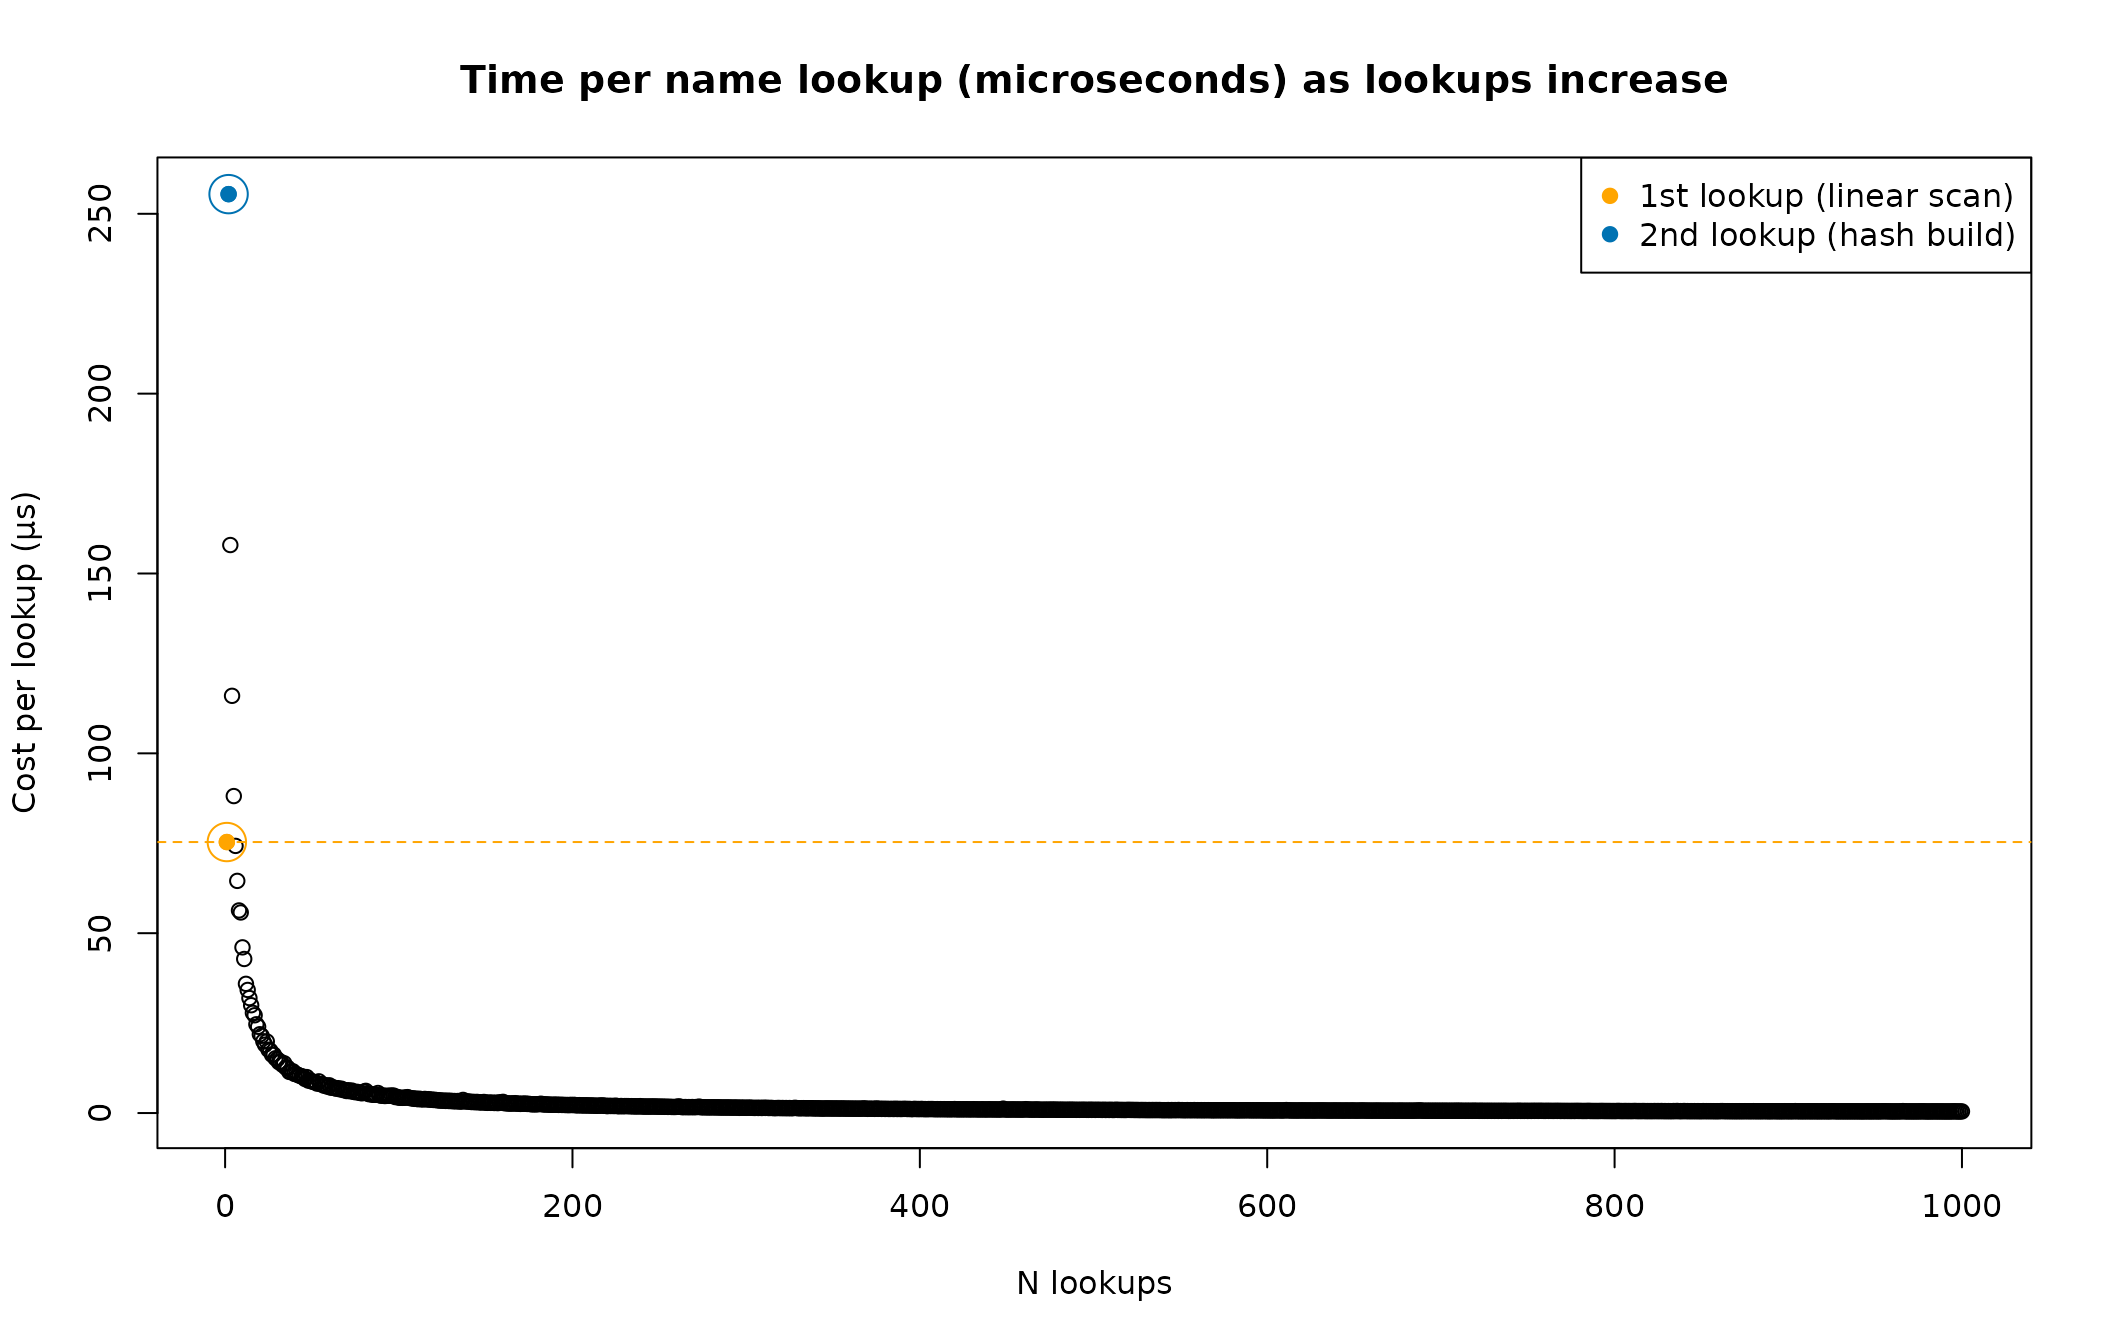
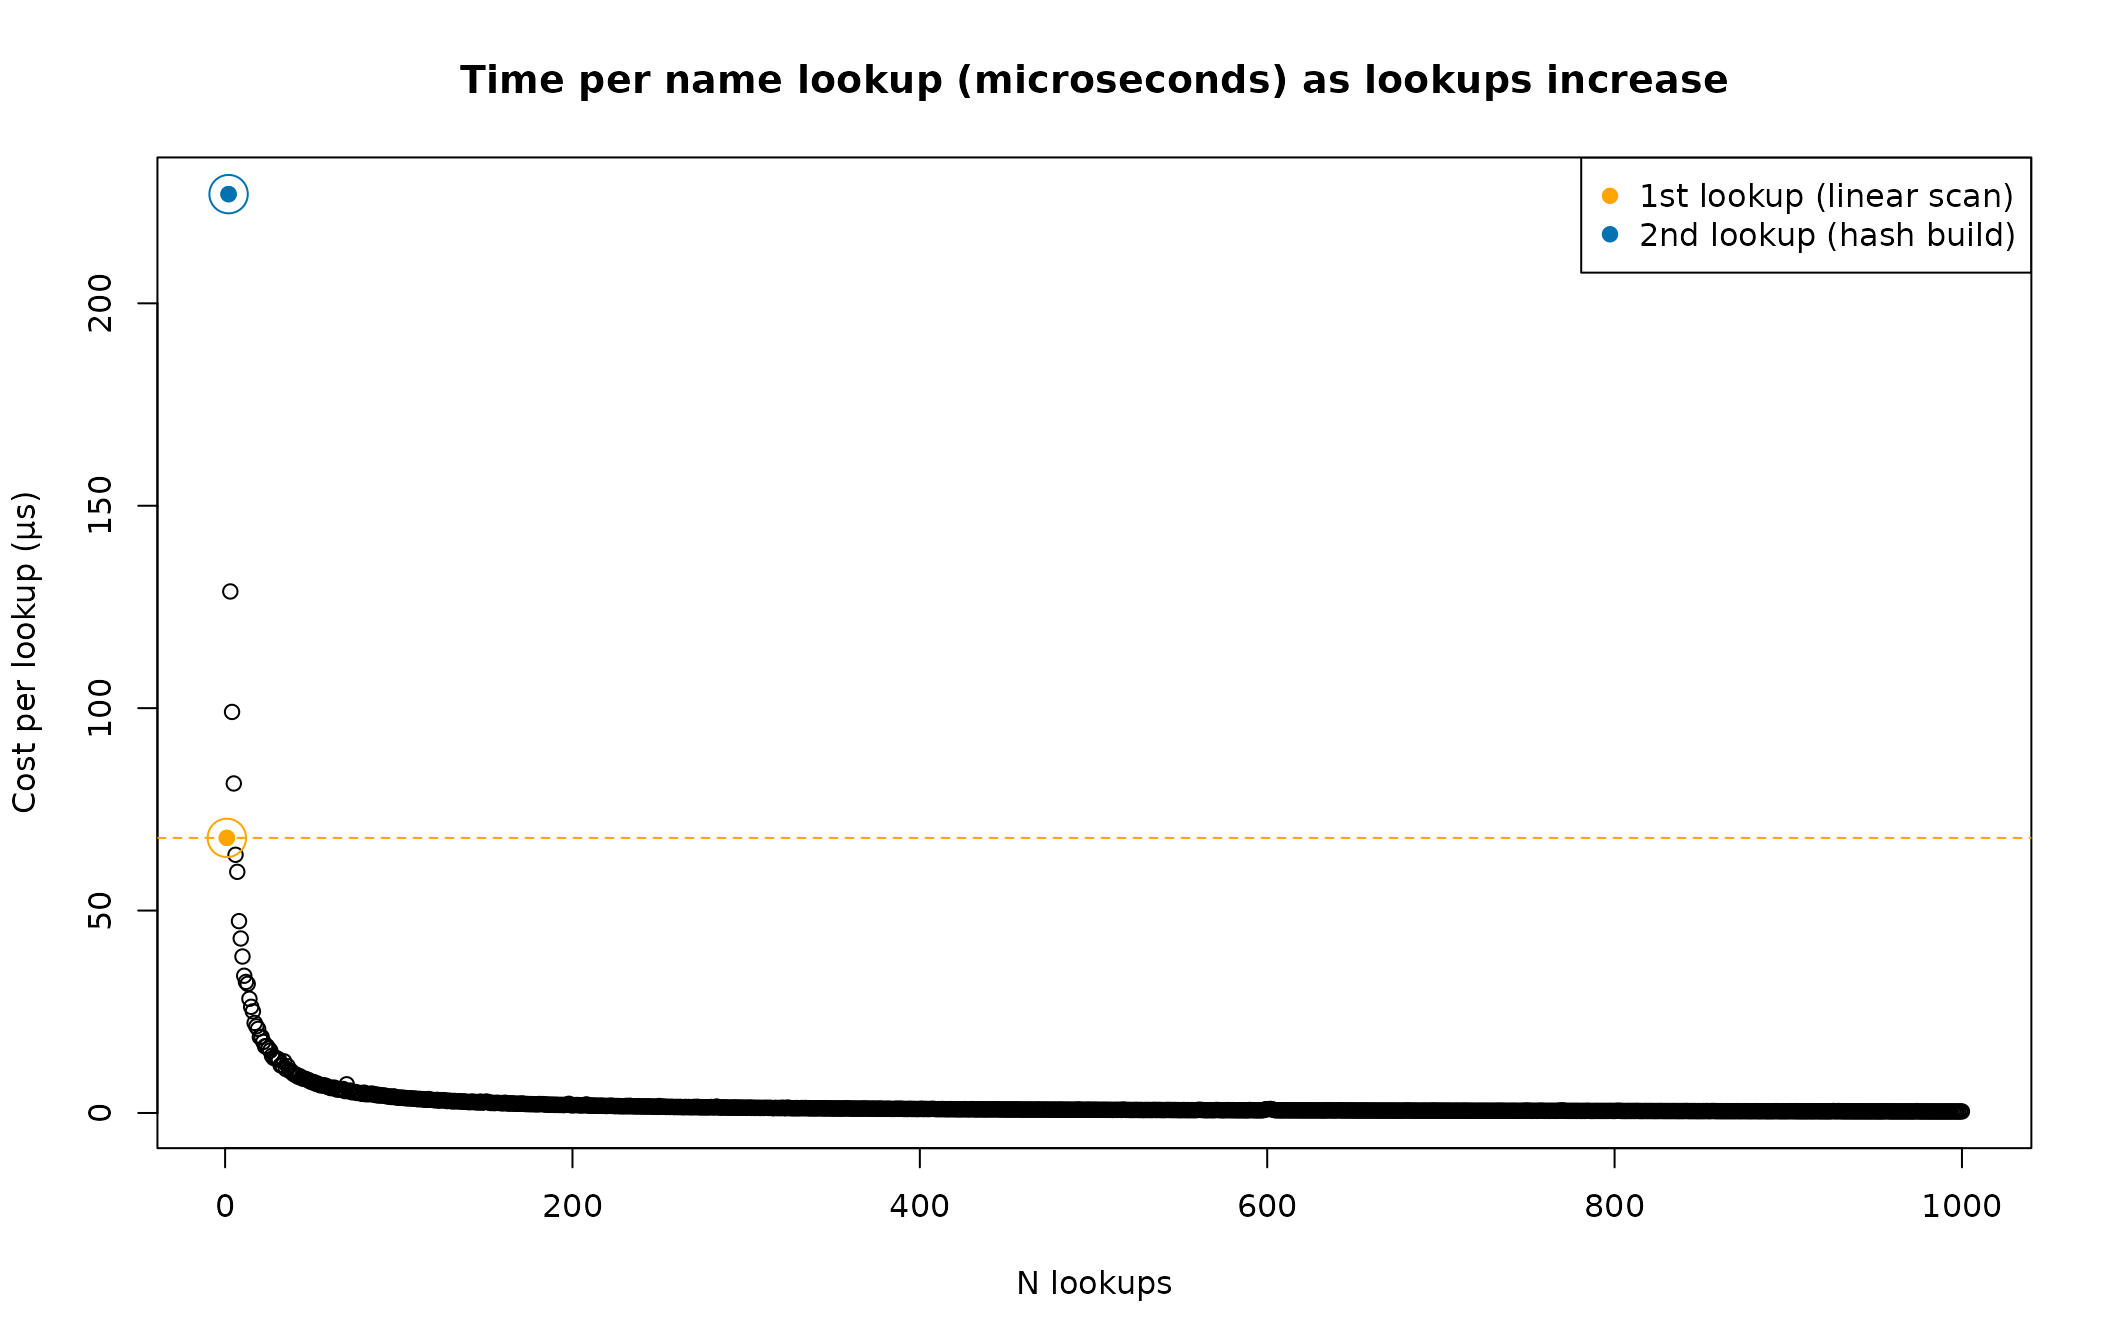
Deploying to gh-pages from @ NicChr/cppally@5fe1cfa82555fb2a5e6d2dbe80a600797ab2247e 🚀

diff --git a/articles/protection.html b/articles/protection.html
@@ -143,12 +143,12 @@ optimisations.</p>
 <div class="sourceCode" id="cb4"><pre class="downlit sourceCode r">
 <code class="sourceCode R"><span><span class="va">insert_release_cpp11</span> <span class="op">&lt;-</span> <span class="fu"><a href="https://rdrr.io/r/base/lapply.html" class="external-link">replicate</a></span><span class="op">(</span><span class="fl">10</span><span class="op">^</span><span class="fl">4</span>, <span class="fu">bench_protect_insert_release_cpp11</span><span class="op">(</span><span class="fl">10</span><span class="op">^</span><span class="fl">4</span><span class="op">)</span><span class="op">)</span> </span>
 <span><span class="fu"><a href="https://rdrr.io/r/base/mean.html" class="external-link">mean</a></span><span class="op">(</span><span class="va">insert_release_cpp11</span><span class="op">)</span></span>
-<span><span class="co">#&gt; [1] 39.52998</span></span>
+<span><span class="co">#&gt; [1] 47.8908</span></span>
 <span><span class="va">insert_release_cppally</span> <span class="op">&lt;-</span> <span class="fu"><a href="https://rdrr.io/r/base/lapply.html" class="external-link">replicate</a></span><span class="op">(</span><span class="fl">10</span><span class="op">^</span><span class="fl">4</span>, <span class="fu">bench_protect_insert_release_cppally</span><span class="op">(</span><span class="fl">10</span><span class="op">^</span><span class="fl">4</span><span class="op">)</span><span class="op">)</span></span>
 <span><span class="fu"><a href="https://rdrr.io/r/base/mean.html" class="external-link">mean</a></span><span class="op">(</span><span class="va">insert_release_cppally</span><span class="op">)</span></span>
-<span><span class="co">#&gt; [1] 17.3038</span></span></code></pre></div>
-<p>On my machine, cpp11 performs an insert &amp; release every ~40
-nanoseconds. cppally performs significantly better, with ~17 nanoseconds
+<span><span class="co">#&gt; [1] 15.41673</span></span></code></pre></div>
+<p>On my machine, cpp11 performs an insert &amp; release every ~48
+nanoseconds. cppally performs significantly better, with ~15 nanoseconds
 per insert &amp; release.</p>
 <p><strong>Copy benchmark</strong></p>
 <div class="sourceCode" id="cb5"><pre class="sourceCode cpp"><code class="sourceCode cpp"><span id="cb5-1"><a href="#cb5-1" tabindex="-1"></a></span>
@@ -194,12 +194,12 @@ per insert &amp; release.</p>
 <div class="sourceCode" id="cb7"><pre class="downlit sourceCode r">
 <code class="sourceCode R"><span><span class="va">copy_sexp_cpp11</span> <span class="op">&lt;-</span> <span class="fu"><a href="https://rdrr.io/r/base/lapply.html" class="external-link">replicate</a></span><span class="op">(</span><span class="fl">10</span><span class="op">^</span><span class="fl">4</span>, <span class="fu">bench_protect_copy_cpp11</span><span class="op">(</span><span class="fl">10</span><span class="op">^</span><span class="fl">4</span><span class="op">)</span><span class="op">)</span></span>
 <span><span class="fu"><a href="https://rdrr.io/r/base/mean.html" class="external-link">mean</a></span><span class="op">(</span><span class="va">copy_sexp_cpp11</span><span class="op">)</span></span>
-<span><span class="co">#&gt; [1] 35.79445</span></span>
+<span><span class="co">#&gt; [1] 45.13448</span></span>
 <span><span class="va">copy_sexp_cppally</span> <span class="op">&lt;-</span> <span class="fu"><a href="https://rdrr.io/r/base/lapply.html" class="external-link">replicate</a></span><span class="op">(</span><span class="fl">10</span><span class="op">^</span><span class="fl">4</span>, <span class="fu">bench_protect_copy_cppally</span><span class="op">(</span><span class="fl">10</span><span class="op">^</span><span class="fl">4</span><span class="op">)</span><span class="op">)</span></span>
 <span><span class="fu"><a href="https://rdrr.io/r/base/mean.html" class="external-link">mean</a></span><span class="op">(</span><span class="va">copy_sexp_cppally</span><span class="op">)</span></span>
-<span><span class="co">#&gt; [1] 0.3163867</span></span></code></pre></div>
+<span><span class="co">#&gt; [1] 0.3557763</span></span></code></pre></div>
 <p>In these benchmark results we can see a drastic difference, with
-cpp11 at ~36 ns/copy and cppally at ~0.3 ns/copy.</p>
+cpp11 at ~45 ns/copy and cppally at ~0.4 ns/copy.</p>
 <p><strong>Impact of protection overhead, a real example</strong></p>
 <p>Let’s look at a real example of how much protection overhead can have
 an impact on performance.</p>
@@ -259,21 +259,21 @@ microseconds</p>
 <span><span class="co">#&gt; <span style="color: #949494;"># A tibble: 1 × 6</span></span></span>
 <span><span class="co">#&gt;   expression         min   median `itr/sec` mem_alloc `gc/sec`</span></span>
 <span><span class="co">#&gt;   <span style="color: #949494; font-style: italic;">&lt;bch:expr&gt;</span>    <span style="color: #949494; font-style: italic;">&lt;bch:tm&gt;</span> <span style="color: #949494; font-style: italic;">&lt;bch:tm&gt;</span>     <span style="color: #949494; font-style: italic;">&lt;dbl&gt;</span> <span style="color: #949494; font-style: italic;">&lt;bch:byt&gt;</span>    <span style="color: #949494; font-style: italic;">&lt;dbl&gt;</span></span></span>
-<span><span class="co">#&gt; <span style="color: #BCBCBC;">1</span> C_na_count(x)   63.3µs   63.8µs    <span style="text-decoration: underline;">15</span>327.        0B        0</span></span></code></pre></div>
+<span><span class="co">#&gt; <span style="color: #BCBCBC;">1</span> C_na_count(x)   71.1µs   71.3µs    <span style="text-decoration: underline;">13</span>760.        0B        0</span></span></code></pre></div>
 <p><strong>cpp11 results</strong> - ~5 milliseconds</p>
 <div class="sourceCode" id="cb13"><pre class="downlit sourceCode r">
 <code class="sourceCode R"><span><span class="fu"><a href="https://bench.r-lib.org/reference/mark.html" class="external-link">mark</a></span><span class="op">(</span><span class="fu">cpp11_na_count</span><span class="op">(</span><span class="va">x</span><span class="op">)</span><span class="op">)</span></span>
 <span><span class="co">#&gt; <span style="color: #949494;"># A tibble: 1 × 6</span></span></span>
 <span><span class="co">#&gt;   expression             min   median `itr/sec` mem_alloc `gc/sec`</span></span>
 <span><span class="co">#&gt;   <span style="color: #949494; font-style: italic;">&lt;bch:expr&gt;</span>        <span style="color: #949494; font-style: italic;">&lt;bch:tm&gt;</span> <span style="color: #949494; font-style: italic;">&lt;bch:tm&gt;</span>     <span style="color: #949494; font-style: italic;">&lt;dbl&gt;</span> <span style="color: #949494; font-style: italic;">&lt;bch:byt&gt;</span>    <span style="color: #949494; font-style: italic;">&lt;dbl&gt;</span></span></span>
-<span><span class="co">#&gt; <span style="color: #BCBCBC;">1</span> cpp11_na_count(x)   6.54ms   6.67ms      148.        0B     46.5</span></span></code></pre></div>
+<span><span class="co">#&gt; <span style="color: #BCBCBC;">1</span> cpp11_na_count(x)   7.45ms   8.67ms      116.        0B     33.9</span></span></code></pre></div>
 <p><strong>cppally results</strong> - ~750 microseconds</p>
 <div class="sourceCode" id="cb14"><pre class="downlit sourceCode r">
 <code class="sourceCode R"><span><span class="fu"><a href="https://bench.r-lib.org/reference/mark.html" class="external-link">mark</a></span><span class="op">(</span><span class="fu">cppally_na_count</span><span class="op">(</span><span class="va">x</span><span class="op">)</span><span class="op">)</span></span>
 <span><span class="co">#&gt; <span style="color: #949494;"># A tibble: 1 × 6</span></span></span>
 <span><span class="co">#&gt;   expression               min   median `itr/sec` mem_alloc `gc/sec`</span></span>
 <span><span class="co">#&gt;   <span style="color: #949494; font-style: italic;">&lt;bch:expr&gt;</span>          <span style="color: #949494; font-style: italic;">&lt;bch:tm&gt;</span> <span style="color: #949494; font-style: italic;">&lt;bch:tm&gt;</span>     <span style="color: #949494; font-style: italic;">&lt;dbl&gt;</span> <span style="color: #949494; font-style: italic;">&lt;bch:byt&gt;</span>    <span style="color: #949494; font-style: italic;">&lt;dbl&gt;</span></span></span>
-<span><span class="co">#&gt; <span style="color: #BCBCBC;">1</span> cppally_na_count(x)   1.46ms   1.47ms      676.        0B        0</span></span></code></pre></div>
+<span><span class="co">#&gt; <span style="color: #BCBCBC;">1</span> cppally_na_count(x)   1.36ms   1.37ms      724.        0B        0</span></span></code></pre></div>
 <p>Counting values is a simple operation and because of its simplicity,
 the overhead associated with protection will dominate the benchmark. We
 can see that when removing the protection overhead and using the R C API
@@ -317,7 +317,7 @@ non-owning version of <code>r_str</code>.</p>
 <span><span class="co">#&gt; <span style="color: #949494;"># A tibble: 1 × 6</span></span></span>
 <span><span class="co">#&gt;   expression                    min   median `itr/sec` mem_alloc `gc/sec`</span></span>
 <span><span class="co">#&gt;   <span style="color: #949494; font-style: italic;">&lt;bch:expr&gt;</span>               <span style="color: #949494; font-style: italic;">&lt;bch:tm&gt;</span> <span style="color: #949494; font-style: italic;">&lt;bch:tm&gt;</span>     <span style="color: #949494; font-style: italic;">&lt;dbl&gt;</span> <span style="color: #949494; font-style: italic;">&lt;bch:byt&gt;</span>    <span style="color: #949494; font-style: italic;">&lt;dbl&gt;</span></span></span>
-<span><span class="co">#&gt; <span style="color: #BCBCBC;">1</span> cppally_fast_na_count(x)    218µs    219µs     <span style="text-decoration: underline;">4</span>488.        0B        0</span></span></code></pre></div>
+<span><span class="co">#&gt; <span style="color: #BCBCBC;">1</span> cppally_fast_na_count(x)    246µs    247µs     <span style="text-decoration: underline;">3</span>977.        0B        0</span></span></code></pre></div>
 <p>Looking at the benchmark results, we have effectively eliminated the
 protection overhead and the median execution time is much closer to that
 of the R C API.</p>
@@ -344,7 +344,7 @@ context.</p>
 <span><span class="co">#&gt; <span style="color: #949494;"># A tibble: 1 × 6</span></span></span>
 <span><span class="co">#&gt;   expression                       min   median `itr/sec` mem_alloc `gc/sec`</span></span>
 <span><span class="co">#&gt;   <span style="color: #949494; font-style: italic;">&lt;bch:expr&gt;</span>                  <span style="color: #949494; font-style: italic;">&lt;bch:tm&gt;</span> <span style="color: #949494; font-style: italic;">&lt;bch:tm&gt;</span>     <span style="color: #949494; font-style: italic;">&lt;dbl&gt;</span> <span style="color: #949494; font-style: italic;">&lt;bch:byt&gt;</span>    <span style="color: #949494; font-style: italic;">&lt;dbl&gt;</span></span></span>
-<span><span class="co">#&gt; <span style="color: #BCBCBC;">1</span> cppally_fast_na_count_v2(x)    218µs    219µs     <span style="text-decoration: underline;">4</span>492.        0B        0</span></span></code></pre></div>
+<span><span class="co">#&gt; <span style="color: #BCBCBC;">1</span> cppally_fast_na_count_v2(x)    212µs    247µs     <span style="text-decoration: underline;">3</span>992.        0B        0</span></span></code></pre></div>
 <p>The results are similar to that of
 <code>cppally_fast_na_count()</code>.</p>
 </div>

diff --git a/articles/vector_name_hashing.html b/articles/vector_name_hashing.html
@@ -119,12 +119,12 @@ index</p>
 <span><span class="co">#&gt; <span style="color: #949494;"># A tibble: 1 × 6</span></span></span>
 <span><span class="co">#&gt;   expression      min   median `itr/sec` mem_alloc `gc/sec`</span></span>
 <span><span class="co">#&gt;   <span style="color: #949494; font-style: italic;">&lt;bch:expr&gt;</span> <span style="color: #949494; font-style: italic;">&lt;bch:tm&gt;</span> <span style="color: #949494; font-style: italic;">&lt;bch:tm&gt;</span>     <span style="color: #949494; font-style: italic;">&lt;dbl&gt;</span> <span style="color: #949494; font-style: italic;">&lt;bch:byt&gt;</span>    <span style="color: #949494; font-style: italic;">&lt;dbl&gt;</span></span></span>
-<span><span class="co">#&gt; <span style="color: #BCBCBC;">1</span> large[[1]]    140ns    170ns  5<span style="text-decoration: underline;">709</span>253.        0B        0</span></span>
+<span><span class="co">#&gt; <span style="color: #BCBCBC;">1</span> large[[1]]    110ns    140ns  6<span style="text-decoration: underline;">603</span>003.        0B        0</span></span>
 <span><span class="fu"><a href="https://bench.r-lib.org/reference/mark.html" class="external-link">mark</a></span><span class="op">(</span><span class="va">large</span><span class="op">[[</span><span class="fu"><a href="https://rdrr.io/r/base/length.html" class="external-link">length</a></span><span class="op">(</span><span class="va">large</span><span class="op">)</span><span class="op">]</span><span class="op">]</span><span class="op">)</span></span>
 <span><span class="co">#&gt; <span style="color: #949494;"># A tibble: 1 × 6</span></span></span>
 <span><span class="co">#&gt;   expression                  min   median `itr/sec` mem_alloc `gc/sec`</span></span>
 <span><span class="co">#&gt;   <span style="color: #949494; font-style: italic;">&lt;bch:expr&gt;</span>             <span style="color: #949494; font-style: italic;">&lt;bch:tm&gt;</span> <span style="color: #949494; font-style: italic;">&lt;bch:tm&gt;</span>     <span style="color: #949494; font-style: italic;">&lt;dbl&gt;</span> <span style="color: #949494; font-style: italic;">&lt;bch:byt&gt;</span>    <span style="color: #949494; font-style: italic;">&lt;dbl&gt;</span></span></span>
-<span><span class="co">#&gt; <span style="color: #BCBCBC;">1</span> large[[length(large)]]    230ns    261ns  3<span style="text-decoration: underline;">588</span>673.        0B        0</span></span></code></pre></div>
+<span><span class="co">#&gt; <span style="color: #BCBCBC;">1</span> large[[length(large)]]    200ns    231ns  3<span style="text-decoration: underline;">666</span>752.        0B        0</span></span></code></pre></div>
 <p>Since R scans the names each time, lookup by name is O(n) and can be
 slow if names happen to be near the end of the vector</p>
 <div class="sourceCode" id="cb6"><pre class="downlit sourceCode r">
@@ -135,8 +135,8 @@ slow if names happen to be near the end of the vector</p>
 <span><span class="co">#&gt; <span style="color: #949494;"># A tibble: 2 × 6</span></span></span>
 <span><span class="co">#&gt;   expression      min   median `itr/sec` mem_alloc `gc/sec`</span></span>
 <span><span class="co">#&gt;   <span style="color: #949494; font-style: italic;">&lt;bch:expr&gt;</span> <span style="color: #949494; font-style: italic;">&lt;bch:tm&gt;</span> <span style="color: #949494; font-style: italic;">&lt;bch:tm&gt;</span>     <span style="color: #949494; font-style: italic;">&lt;dbl&gt;</span> <span style="color: #949494; font-style: italic;">&lt;bch:byt&gt;</span>    <span style="color: #949494; font-style: italic;">&lt;dbl&gt;</span></span></span>
-<span><span class="co">#&gt; <span style="color: #BCBCBC;">1</span> by_name       160ns    181ns  5<span style="text-decoration: underline;">085</span>236.        0B        0</span></span>
-<span><span class="co">#&gt; <span style="color: #BCBCBC;">2</span> by_index      140ns    170ns  5<span style="text-decoration: underline;">611</span>663.        0B        0</span></span>
+<span><span class="co">#&gt; <span style="color: #BCBCBC;">1</span> by_name       120ns    160ns  5<span style="text-decoration: underline;">779</span>271.        0B        0</span></span>
+<span><span class="co">#&gt; <span style="color: #BCBCBC;">2</span> by_index      110ns    140ns  6<span style="text-decoration: underline;">283</span>416.        0B        0</span></span>
 <span></span>
 <span><span class="fu"><a href="https://bench.r-lib.org/reference/mark.html" class="external-link">mark</a></span><span class="op">(</span></span>
 <span>    by_name <span class="op">=</span> <span class="va">large</span><span class="op">[[</span><span class="st">"name_100000"</span><span class="op">]</span><span class="op">]</span>, </span>
@@ -145,8 +145,8 @@ slow if names happen to be near the end of the vector</p>
 <span><span class="co">#&gt; <span style="color: #949494;"># A tibble: 2 × 6</span></span></span>
 <span><span class="co">#&gt;   expression      min   median `itr/sec` mem_alloc `gc/sec`</span></span>
 <span><span class="co">#&gt;   <span style="color: #949494; font-style: italic;">&lt;bch:expr&gt;</span> <span style="color: #949494; font-style: italic;">&lt;bch:tm&gt;</span> <span style="color: #949494; font-style: italic;">&lt;bch:tm&gt;</span>     <span style="color: #949494; font-style: italic;">&lt;dbl&gt;</span> <span style="color: #949494; font-style: italic;">&lt;bch:byt&gt;</span>    <span style="color: #949494; font-style: italic;">&lt;dbl&gt;</span></span></span>
-<span><span class="co">#&gt; <span style="color: #BCBCBC;">1</span> by_name       526µs    540µs     <span style="text-decoration: underline;">1</span>850.        0B        0</span></span>
-<span><span class="co">#&gt; <span style="color: #BCBCBC;">2</span> by_index      140ns    170ns  5<span style="text-decoration: underline;">703</span>586.        0B        0</span></span></code></pre></div>
+<span><span class="co">#&gt; <span style="color: #BCBCBC;">1</span> by_name       588µs    603µs     <span style="text-decoration: underline;">1</span>657.        0B        0</span></span>
+<span><span class="co">#&gt; <span style="color: #BCBCBC;">2</span> by_index      110ns    140ns  6<span style="text-decoration: underline;">759</span>698.        0B        0</span></span></code></pre></div>
 <p>If we created a hash table of names-values, we could speedup repeated
 lookups</p>
 <div class="sourceCode" id="cb7"><pre class="downlit sourceCode r">
@@ -170,9 +170,9 @@ hashed name</p>
 <span><span class="co">#&gt; <span style="color: #949494;"># A tibble: 3 × 6</span></span></span>
 <span><span class="co">#&gt;   expression          min   median `itr/sec` mem_alloc `gc/sec`</span></span>
 <span><span class="co">#&gt;   <span style="color: #949494; font-style: italic;">&lt;bch:expr&gt;</span>     <span style="color: #949494; font-style: italic;">&lt;bch:tm&gt;</span> <span style="color: #949494; font-style: italic;">&lt;bch:tm&gt;</span>     <span style="color: #949494; font-style: italic;">&lt;dbl&gt;</span> <span style="color: #949494; font-style: italic;">&lt;bch:byt&gt;</span>    <span style="color: #949494; font-style: italic;">&lt;dbl&gt;</span></span></span>
-<span><span class="co">#&gt; <span style="color: #BCBCBC;">1</span> by_name           529µs    542µs     <span style="text-decoration: underline;">1</span>744.        0B        0</span></span>
-<span><span class="co">#&gt; <span style="color: #BCBCBC;">2</span> by_index          140ns    161ns  5<span style="text-decoration: underline;">583</span>913.        0B        0</span></span>
-<span><span class="co">#&gt; <span style="color: #BCBCBC;">3</span> by_hashed_name    901ns    932ns   <span style="text-decoration: underline;">758</span>950.        0B        0</span></span></code></pre></div>
+<span><span class="co">#&gt; <span style="color: #BCBCBC;">1</span> by_name           588µs    604µs     <span style="text-decoration: underline;">1</span>653.        0B        0</span></span>
+<span><span class="co">#&gt; <span style="color: #BCBCBC;">2</span> by_index          110ns    140ns  6<span style="text-decoration: underline;">467</span>949.        0B        0</span></span>
+<span><span class="co">#&gt; <span style="color: #BCBCBC;">3</span> by_hashed_name    861ns    932ns   <span style="text-decoration: underline;">727</span>906.        0B        0</span></span></code></pre></div>
 <p>That worked! Extracting the value associated with the last name using
 the hash table was almost as fast as looking it up by location.</p>
 <p>cppally uses this same approach internally, attaching a lazy hash map
@@ -304,8 +304,8 @@ R and C++</p>
 <span><span class="co">#&gt; <span style="color: #949494;"># A tibble: 2 × 6</span></span></span>
 <span><span class="co">#&gt;   expression              min   median `itr/sec` mem_alloc `gc/sec`</span></span>
 <span><span class="co">#&gt;   <span style="color: #949494; font-style: italic;">&lt;bch:expr&gt;</span>         <span style="color: #949494; font-style: italic;">&lt;bch:tm&gt;</span> <span style="color: #949494; font-style: italic;">&lt;bch:tm&gt;</span>     <span style="color: #949494; font-style: italic;">&lt;dbl&gt;</span> <span style="color: #949494; font-style: italic;">&lt;bch:byt&gt;</span>    <span style="color: #949494; font-style: italic;">&lt;dbl&gt;</span></span></span>
-<span><span class="co">#&gt; <span style="color: #BCBCBC;">1</span> cppally_one_lookup   33.6µs   34.2µs    <span style="text-decoration: underline;">28</span>258.        0B        0</span></span>
-<span><span class="co">#&gt; <span style="color: #BCBCBC;">2</span> base_one_lookup     533.2µs    547µs     <span style="text-decoration: underline;">1</span>822.    21.6KB        0</span></span></code></pre></div>
+<span><span class="co">#&gt; <span style="color: #BCBCBC;">1</span> cppally_one_lookup   37.2µs   37.8µs    <span style="text-decoration: underline;">25</span>449.        0B        0</span></span>
+<span><span class="co">#&gt; <span style="color: #BCBCBC;">2</span> base_one_lookup     589.6µs    604µs     <span style="text-decoration: underline;">1</span>652.    21.6KB        0</span></span></code></pre></div>
 <p>While I’m not sure why cppally’s linear scan is faster than R’s, it
 may be due to the fact that direct data access is used to compare
 elements instead of <code>STRING_ELT()</code></p>

diff --git a/reference/cpp_source.html b/reference/cpp_source.html
@@ -296,14 +296,14 @@ the <code>[[cppally::register]]</code> tagged functions to R. <br><code>cpp_eval
 <span class="r-in"><span><span class="fu"><a href="https://bench.r-lib.org/reference/mark.html" class="external-link">mark</a></span><span class="op">(</span><span class="fu">last_altrep_aware</span><span class="op">(</span><span class="fl">1</span><span class="op">:</span><span class="fl">10</span><span class="op">^</span><span class="fl">5</span><span class="op">)</span><span class="op">)</span> <span class="co"># No materialisation</span></span></span>
 <span class="r-out co"><span class="r-pr">#&gt;</span> <span style="color: #949494;"># A tibble: 1 × 13</span></span>
 <span class="r-out co"><span class="r-pr">#&gt;</span>   expression      min median `itr/sec` mem_alloc `gc/sec` n_itr  n_gc total_time</span>
-<span class="r-out co"><span class="r-pr">#&gt;</span>   <span style="color: #949494; font-style: italic;">&lt;bch:expr&gt;</span>   <span style="color: #949494; font-style: italic;">&lt;bch:&gt;</span> <span style="color: #949494; font-style: italic;">&lt;bch:&gt;</span>     <span style="color: #949494; font-style: italic;">&lt;dbl&gt;</span> <span style="color: #949494; font-style: italic;">&lt;bch:byt&gt;</span>    <span style="color: #949494; font-style: italic;">&lt;dbl&gt;</span> <span style="color: #949494; font-style: italic;">&lt;int&gt;</span> <span style="color: #949494; font-style: italic;">&lt;dbl&gt;</span>   <span style="color: #949494; font-style: italic;">&lt;bch:tm&gt;</span></span>
-<span class="r-out co"><span class="r-pr">#&gt;</span> <span style="color: #BCBCBC;">1</span> last_altrep… 3.84µs 4.88µs   <span style="text-decoration: underline;">193</span>582.    3.18KB        0 <span style="text-decoration: underline;">10</span>000     0     51.7ms</span>
+<span class="r-out co"><span class="r-pr">#&gt;</span>   <span style="color: #949494; font-style: italic;">&lt;bch:expr&gt;</span>    <span style="color: #949494; font-style: italic;">&lt;bch&gt;</span> <span style="color: #949494; font-style: italic;">&lt;bch:&gt;</span>     <span style="color: #949494; font-style: italic;">&lt;dbl&gt;</span> <span style="color: #949494; font-style: italic;">&lt;bch:byt&gt;</span>    <span style="color: #949494; font-style: italic;">&lt;dbl&gt;</span> <span style="color: #949494; font-style: italic;">&lt;int&gt;</span> <span style="color: #949494; font-style: italic;">&lt;dbl&gt;</span>   <span style="color: #949494; font-style: italic;">&lt;bch:tm&gt;</span></span>
+<span class="r-out co"><span class="r-pr">#&gt;</span> <span style="color: #BCBCBC;">1</span> last_altrep_… 3.6µs  4.8µs   <span style="text-decoration: underline;">191</span>845.    3.18KB        0 <span style="text-decoration: underline;">10</span>000     0     52.1ms</span>
 <span class="r-out co"><span class="r-pr">#&gt;</span> <span style="color: #949494;"># ℹ 4 more variables: result &lt;list&gt;, memory &lt;list&gt;, time &lt;list&gt;, gc &lt;list&gt;</span></span>
 <span class="r-in"><span><span class="fu"><a href="https://bench.r-lib.org/reference/mark.html" class="external-link">mark</a></span><span class="op">(</span><span class="fu">last_altrep_unaware</span><span class="op">(</span><span class="fl">1</span><span class="op">:</span><span class="fl">10</span><span class="op">^</span><span class="fl">5</span><span class="op">)</span><span class="op">)</span> <span class="co"># Materialises full vector</span></span></span>
 <span class="r-out co"><span class="r-pr">#&gt;</span> <span style="color: #949494;"># A tibble: 1 × 13</span></span>
 <span class="r-out co"><span class="r-pr">#&gt;</span>   expression      min median `itr/sec` mem_alloc `gc/sec` n_itr  n_gc total_time</span>
 <span class="r-out co"><span class="r-pr">#&gt;</span>   <span style="color: #949494; font-style: italic;">&lt;bch:expr&gt;</span>   <span style="color: #949494; font-style: italic;">&lt;bch:&gt;</span> <span style="color: #949494; font-style: italic;">&lt;bch:&gt;</span>     <span style="color: #949494; font-style: italic;">&lt;dbl&gt;</span> <span style="color: #949494; font-style: italic;">&lt;bch:byt&gt;</span>    <span style="color: #949494; font-style: italic;">&lt;dbl&gt;</span> <span style="color: #949494; font-style: italic;">&lt;int&gt;</span> <span style="color: #949494; font-style: italic;">&lt;dbl&gt;</span>   <span style="color: #949494; font-style: italic;">&lt;bch:tm&gt;</span></span>
-<span class="r-out co"><span class="r-pr">#&gt;</span> <span style="color: #BCBCBC;">1</span> last_altrep… 37.1µs 38.9µs    <span style="text-decoration: underline;">20</span>780.     391KB     167.  <span style="text-decoration: underline;">3</span>737    30      180ms</span>
+<span class="r-out co"><span class="r-pr">#&gt;</span> <span style="color: #BCBCBC;">1</span> last_altrep… 38.9µs   40µs    <span style="text-decoration: underline;">21</span>773.     391KB     175.  <span style="text-decoration: underline;">3</span>737    30      172ms</span>
 <span class="r-out co"><span class="r-pr">#&gt;</span> <span style="color: #949494;"># ℹ 4 more variables: result &lt;list&gt;, memory &lt;list&gt;, time &lt;list&gt;, gc &lt;list&gt;</span></span>
 <span class="r-in"><span></span></span>
 <span class="r-in"><span><span class="co"># }</span></span></span>

diff --git a/articles/cppally.html b/articles/cppally.html
@@ -910,8 +910,8 @@ of number of unique values.</p>
 <span><span class="co">#&gt; <span style="color: #949494;"># A tibble: 2 × 6</span></span></span>
 <span><span class="co">#&gt;   expression            min   median `itr/sec` mem_alloc `gc/sec`</span></span>
 <span><span class="co">#&gt;   <span style="color: #949494; font-style: italic;">&lt;bch:expr&gt;</span>       <span style="color: #949494; font-style: italic;">&lt;bch:tm&gt;</span> <span style="color: #949494; font-style: italic;">&lt;bch:tm&gt;</span>     <span style="color: #949494; font-style: italic;">&lt;dbl&gt;</span> <span style="color: #949494; font-style: italic;">&lt;bch:byt&gt;</span>    <span style="color: #949494; font-style: italic;">&lt;dbl&gt;</span></span></span>
-<span><span class="co">#&gt; <span style="color: #BCBCBC;">1</span> base_n_unique       784µs    891µs     <span style="text-decoration: underline;">1</span>102.    1.38MB     31.6</span></span>
-<span><span class="co">#&gt; <span style="color: #BCBCBC;">2</span> cppally_n_unique    279µs    282µs     <span style="text-decoration: underline;">3</span>493.        0B      0</span></span></code></pre></div>
+<span><span class="co">#&gt; <span style="color: #BCBCBC;">1</span> base_n_unique       773µs    792µs     <span style="text-decoration: underline;">1</span>193.    1.38MB     34.2</span></span>
+<span><span class="co">#&gt; <span style="color: #BCBCBC;">2</span> cppally_n_unique    307µs    308µs     <span style="text-decoration: underline;">3</span>194.        0B      0</span></span></code></pre></div>
 <p>More useful sugar functions</p>
 <ul>
 <li><p><code><a href="https://rdrr.io/r/base/unique.html" class="external-link">unique()</a></code> - Like R’s <code><a href="https://rdrr.io/r/base/unique.html" class="external-link">unique()</a></code> but with a

diff --git a/articles/protection.md b/articles/protection.md
@@ -88,14 +88,14 @@ double bench_protect_insert_release_cppally(int n) {
 
 insert_release_cpp11 <- replicate(10^4, bench_protect_insert_release_cpp11(10^4)) 
 mean(insert_release_cpp11)
-#> [1] 39.52998
+#> [1] 47.8908
 insert_release_cppally <- replicate(10^4, bench_protect_insert_release_cppally(10^4))
 mean(insert_release_cppally)
-#> [1] 17.3038
+#> [1] 15.41673
 ```
 
-On my machine, cpp11 performs an insert & release every ~40 nanoseconds.
-cppally performs significantly better, with ~17 nanoseconds per insert &
+On my machine, cpp11 performs an insert & release every ~48 nanoseconds.
+cppally performs significantly better, with ~15 nanoseconds per insert &
 release.
 
 **Copy benchmark**
@@ -151,14 +151,14 @@ double bench_protect_copy_cppally(int n) {
 
 copy_sexp_cpp11 <- replicate(10^4, bench_protect_copy_cpp11(10^4))
 mean(copy_sexp_cpp11)
-#> [1] 35.79445
+#> [1] 45.13448
 copy_sexp_cppally <- replicate(10^4, bench_protect_copy_cppally(10^4))
 mean(copy_sexp_cppally)
-#> [1] 0.3163867
+#> [1] 0.3557763
 ```
 
 In these benchmark results we can see a drastic difference, with cpp11
-at ~36 ns/copy and cppally at ~0.3 ns/copy.
+at ~45 ns/copy and cppally at ~0.4 ns/copy.
 
 **Impact of protection overhead, a real example**
 
@@ -234,7 +234,7 @@ mark(C_na_count(x))
 #> # A tibble: 1 × 6
 #>   expression         min   median `itr/sec` mem_alloc `gc/sec`
 #>   <bch:expr>    <bch:tm> <bch:tm>     <dbl> <bch:byt>    <dbl>
-#> 1 C_na_count(x)   63.3µs   63.8µs    15327.        0B        0
+#> 1 C_na_count(x)   71.1µs   71.3µs    13760.        0B        0
 ```
 
 **cpp11 results** - ~5 milliseconds
@@ -245,7 +245,7 @@ mark(cpp11_na_count(x))
 #> # A tibble: 1 × 6
 #>   expression             min   median `itr/sec` mem_alloc `gc/sec`
 #>   <bch:expr>        <bch:tm> <bch:tm>     <dbl> <bch:byt>    <dbl>
-#> 1 cpp11_na_count(x)   6.54ms   6.67ms      148.        0B     46.5
+#> 1 cpp11_na_count(x)   7.45ms   8.67ms      116.        0B     33.9
 ```
 
 **cppally results** - ~750 microseconds
@@ -256,7 +256,7 @@ mark(cppally_na_count(x))
 #> # A tibble: 1 × 6
 #>   expression               min   median `itr/sec` mem_alloc `gc/sec`
 #>   <bch:expr>          <bch:tm> <bch:tm>     <dbl> <bch:byt>    <dbl>
-#> 1 cppally_na_count(x)   1.46ms   1.47ms      676.        0B        0
+#> 1 cppally_na_count(x)   1.36ms   1.37ms      724.        0B        0
 ```
 
 Counting values is a simple operation and because of its simplicity, the
@@ -305,7 +305,7 @@ mark(cppally_fast_na_count(x))
 #> # A tibble: 1 × 6
 #>   expression                    min   median `itr/sec` mem_alloc `gc/sec`
 #>   <bch:expr>               <bch:tm> <bch:tm>     <dbl> <bch:byt>    <dbl>
-#> 1 cppally_fast_na_count(x)    218µs    219µs     4488.        0B        0
+#> 1 cppally_fast_na_count(x)    246µs    247µs     3977.        0B        0
 ```
 
 Looking at the benchmark results, we have effectively eliminated the
@@ -338,7 +338,7 @@ mark(cppally_fast_na_count_v2(x))
 #> # A tibble: 1 × 6
 #>   expression                       min   median `itr/sec` mem_alloc `gc/sec`
 #>   <bch:expr>                  <bch:tm> <bch:tm>     <dbl> <bch:byt>    <dbl>
-#> 1 cppally_fast_na_count_v2(x)    218µs    219µs     4492.        0B        0
+#> 1 cppally_fast_na_count_v2(x)    212µs    247µs     3992.        0B        0
 ```
 
 The results are similar to that of `cppally_fast_na_count()`.

diff --git a/articles/vector_name_hashing.md b/articles/vector_name_hashing.md
@@ -68,12 +68,12 @@ mark(large[[1]])
 #> # A tibble: 1 × 6
 #>   expression      min   median `itr/sec` mem_alloc `gc/sec`
 #>   <bch:expr> <bch:tm> <bch:tm>     <dbl> <bch:byt>    <dbl>
-#> 1 large[[1]]    140ns    170ns  5709253.        0B        0
+#> 1 large[[1]]    110ns    140ns  6603003.        0B        0
 mark(large[[length(large)]])
 #> # A tibble: 1 × 6
 #>   expression                  min   median `itr/sec` mem_alloc `gc/sec`
 #>   <bch:expr>             <bch:tm> <bch:tm>     <dbl> <bch:byt>    <dbl>
-#> 1 large[[length(large)]]    230ns    261ns  3588673.        0B        0
+#> 1 large[[length(large)]]    200ns    231ns  3666752.        0B        0
 ```
 
 Since R scans the names each time, lookup by name is O(n) and can be
@@ -88,8 +88,8 @@ mark(
 #> # A tibble: 2 × 6
 #>   expression      min   median `itr/sec` mem_alloc `gc/sec`
 #>   <bch:expr> <bch:tm> <bch:tm>     <dbl> <bch:byt>    <dbl>
-#> 1 by_name       160ns    181ns  5085236.        0B        0
-#> 2 by_index      140ns    170ns  5611663.        0B        0
+#> 1 by_name       120ns    160ns  5779271.        0B        0
+#> 2 by_index      110ns    140ns  6283416.        0B        0
 
 mark(
     by_name = large[["name_100000"]], 
@@ -98,8 +98,8 @@ mark(
 #> # A tibble: 2 × 6
 #>   expression      min   median `itr/sec` mem_alloc `gc/sec`
 #>   <bch:expr> <bch:tm> <bch:tm>     <dbl> <bch:byt>    <dbl>
-#> 1 by_name       526µs    540µs     1850.        0B        0
-#> 2 by_index      140ns    170ns  5703586.        0B        0
+#> 1 by_name       588µs    603µs     1657.        0B        0
+#> 2 by_index      110ns    140ns  6759698.        0B        0
 ```
 
 If we created a hash table of names-values, we could speedup repeated
@@ -131,9 +131,9 @@ mark(
 #> # A tibble: 3 × 6
 #>   expression          min   median `itr/sec` mem_alloc `gc/sec`
 #>   <bch:expr>     <bch:tm> <bch:tm>     <dbl> <bch:byt>    <dbl>
-#> 1 by_name           529µs    542µs     1744.        0B        0
-#> 2 by_index          140ns    161ns  5583913.        0B        0
-#> 3 by_hashed_name    901ns    932ns   758950.        0B        0
+#> 1 by_name           588µs    604µs     1653.        0B        0
+#> 2 by_index          110ns    140ns  6467949.        0B        0
+#> 3 by_hashed_name    861ns    932ns   727906.        0B        0
 ```
 
 That worked! Extracting the value associated with the last name using
@@ -293,8 +293,8 @@ mark(
 #> # A tibble: 2 × 6
 #>   expression              min   median `itr/sec` mem_alloc `gc/sec`
 #>   <bch:expr>         <bch:tm> <bch:tm>     <dbl> <bch:byt>    <dbl>
-#> 1 cppally_one_lookup   33.6µs   34.2µs    28258.        0B        0
-#> 2 base_one_lookup     533.2µs    547µs     1822.    21.6KB        0
+#> 1 cppally_one_lookup   37.2µs   37.8µs    25449.        0B        0
+#> 2 base_one_lookup     589.6µs    604µs     1652.    21.6KB        0
 ```
 
 While I’m not sure why cppally’s linear scan is faster than R’s, it may

diff --git a/reference/cpp_source.md b/reference/cpp_source.md
@@ -237,14 +237,14 @@ library(bench)
 mark(last_altrep_aware(1:10^5)) # No materialisation
 #> # A tibble: 1 × 13
 #>   expression      min median `itr/sec` mem_alloc `gc/sec` n_itr  n_gc total_time
-#>   <bch:expr>   <bch:> <bch:>     <dbl> <bch:byt>    <dbl> <int> <dbl>   <bch:tm>
-#> 1 last_altrep… 3.84µs 4.88µs   193582.    3.18KB        0 10000     0     51.7ms
+#>   <bch:expr>    <bch> <bch:>     <dbl> <bch:byt>    <dbl> <int> <dbl>   <bch:tm>
+#> 1 last_altrep_… 3.6µs  4.8µs   191845.    3.18KB        0 10000     0     52.1ms
 #> # ℹ 4 more variables: result <list>, memory <list>, time <list>, gc <list>
 mark(last_altrep_unaware(1:10^5)) # Materialises full vector
 #> # A tibble: 1 × 13
 #>   expression      min median `itr/sec` mem_alloc `gc/sec` n_itr  n_gc total_time
 #>   <bch:expr>   <bch:> <bch:>     <dbl> <bch:byt>    <dbl> <int> <dbl>   <bch:tm>
-#> 1 last_altrep… 37.1µs 38.9µs    20780.     391KB     167.  3737    30      180ms
+#> 1 last_altrep… 38.9µs   40µs    21773.     391KB     175.  3737    30      172ms
 #> # ℹ 4 more variables: result <list>, memory <list>, time <list>, gc <list>
 
 # }

diff --git a/articles/cppally.md b/articles/cppally.md
@@ -899,8 +899,8 @@ mark(
 #> # A tibble: 2 × 6
 #>   expression            min   median `itr/sec` mem_alloc `gc/sec`
 #>   <bch:expr>       <bch:tm> <bch:tm>     <dbl> <bch:byt>    <dbl>
-#> 1 base_n_unique       784µs    891µs     1102.    1.38MB     31.6
-#> 2 cppally_n_unique    279µs    282µs     3493.        0B      0
+#> 1 base_n_unique       773µs    792µs     1193.    1.38MB     34.2
+#> 2 cppally_n_unique    307µs    308µs     3194.        0B      0
 ```
 
 More useful sugar functions